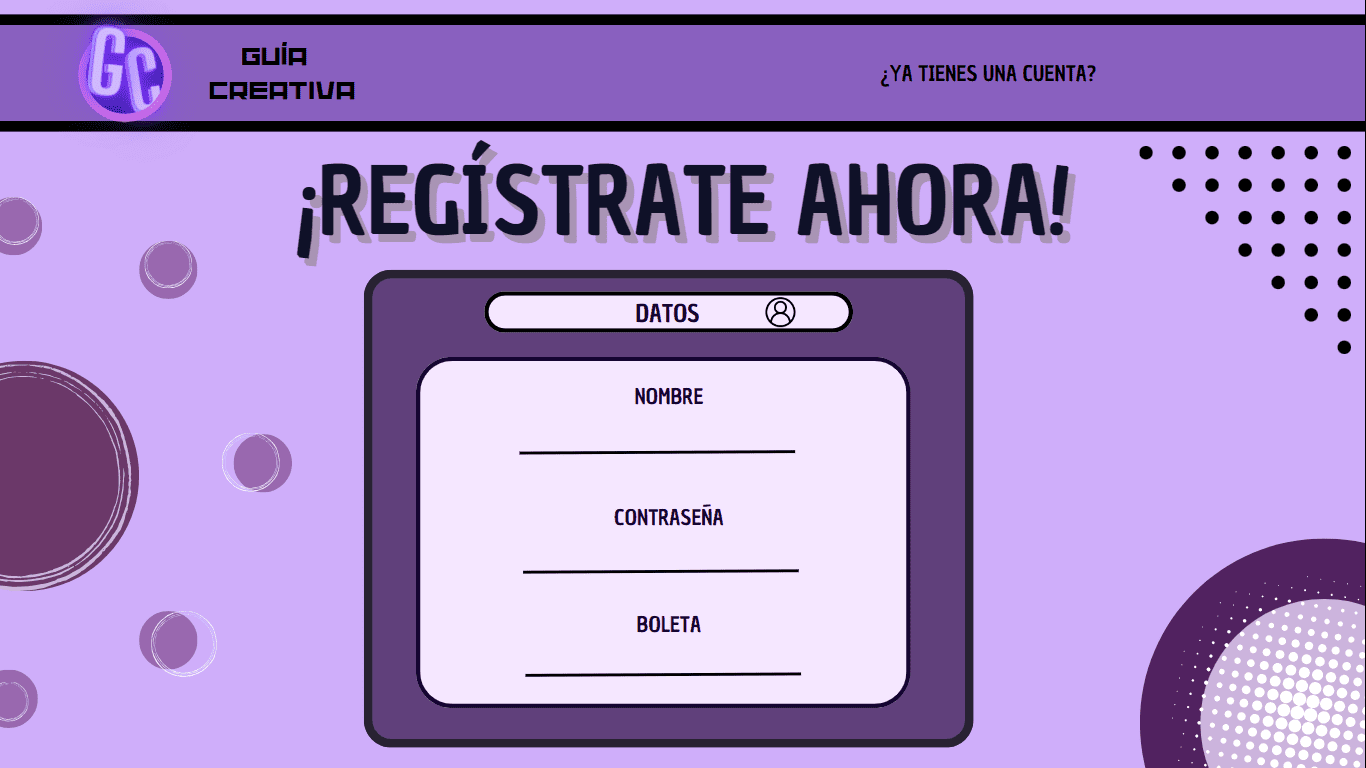
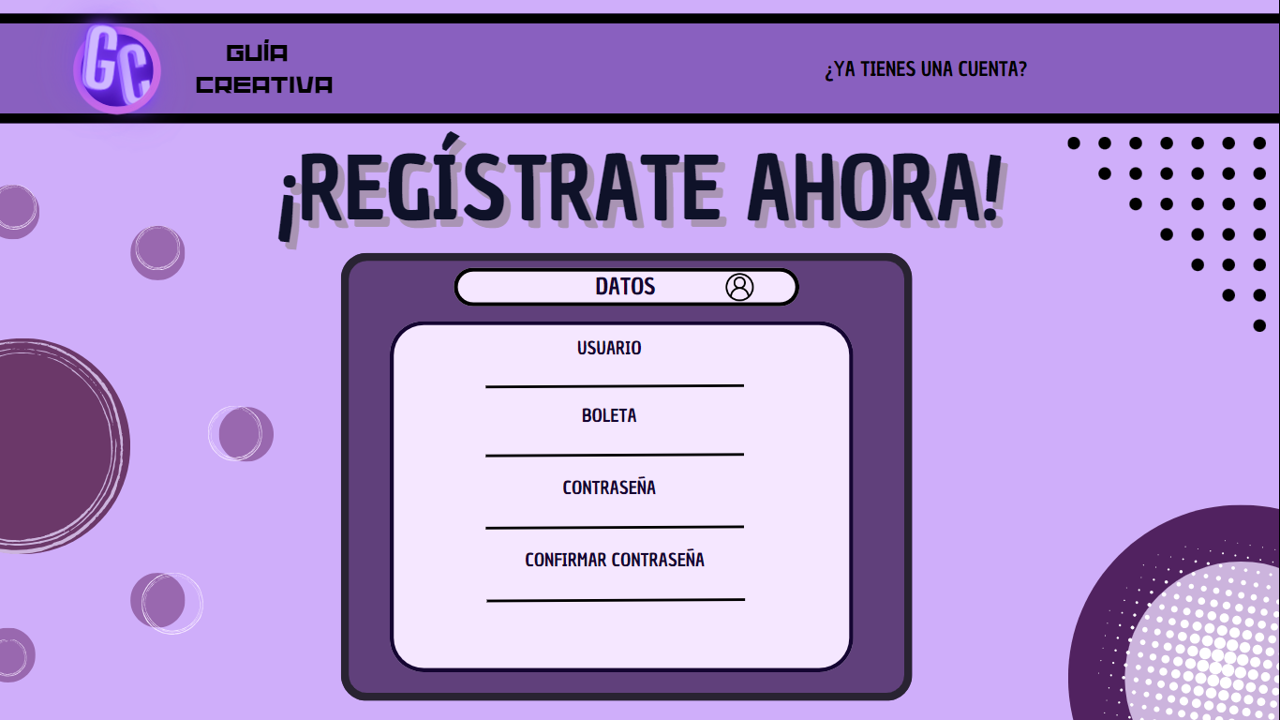
Agregue funciones en la carpeta inicio_sesion

diff --git a/Inicio_Sesion/src/Vista/Pantalla_Registro.java b/Inicio_Sesion/src/Vista/Pantalla_Registro.java
@@ -4,6 +4,14 @@
  */
 package Vista;
 
+import Modelos.Hash;
+import Modelos.SqlUsuarios;
+import Modelos.Usuarios;
+import java.awt.Image;
+import javax.swing.Icon;
+import javax.swing.ImageIcon;
+import javax.swing.JButton;
+
 /**
  *
  * @author user
@@ -15,6 +23,7 @@ public class Pantalla_Registro extends javax.swing.JFrame {
      */
     public Pantalla_Registro() {
         initComponents();
+        btnRegistro.setIcon(setIcono("/Imagenes/Boton-Registro.png", btnRegistro));
     }
 
     /**
@@ -27,53 +36,122 @@ public class Pantalla_Registro extends javax.swing.JFrame {
     private void initComponents() {
 
         bg = new javax.swing.JPanel();
+        txtUsuario = new javax.swing.JTextField();
+        txtPassword = new javax.swing.JPasswordField();
+        txtBoleta = new javax.swing.JTextField();
+        btnRegistro = new javax.swing.JButton();
+        txtConfirmarPassword = new javax.swing.JPasswordField();
         pantalla_Registro = new javax.swing.JLabel();
 
         setDefaultCloseOperation(javax.swing.WindowConstants.EXIT_ON_CLOSE);
-        setPreferredSize(new java.awt.Dimension(1366, 768));
+        setPreferredSize(new java.awt.Dimension(1280, 720));
         setResizable(false);
 
         bg.setBackground(new java.awt.Color(255, 255, 255));
-        bg.setPreferredSize(new java.awt.Dimension(1366, 768));
+        bg.setPreferredSize(new java.awt.Dimension(1280, 720));
+        bg.setLayout(new org.netbeans.lib.awtextra.AbsoluteLayout());
+
+        txtUsuario.setBackground(new java.awt.Color(245, 231, 255));
+        txtUsuario.setForeground(new java.awt.Color(204, 204, 204));
+        txtUsuario.setText("Ingresar su nombre de usuario");
+        txtUsuario.setBorder(null);
+        txtUsuario.setCursor(new java.awt.Cursor(java.awt.Cursor.TEXT_CURSOR));
+        txtUsuario.setDisabledTextColor(new java.awt.Color(0, 0, 0));
+        txtUsuario.addActionListener(new java.awt.event.ActionListener() {
+            public void actionPerformed(java.awt.event.ActionEvent evt) {
+                txtUsuarioActionPerformed(evt);
+            }
+        });
+        bg.add(txtUsuario, new org.netbeans.lib.awtextra.AbsoluteConstraints(490, 360, 260, 20));
+
+        txtPassword.setBackground(new java.awt.Color(245, 231, 255));
+        txtPassword.setForeground(new java.awt.Color(204, 204, 204));
+        txtPassword.setHorizontalAlignment(javax.swing.JTextField.LEFT);
+        txtPassword.setText("jPasswordField1");
+        txtPassword.setBorder(null);
+        txtPassword.setDisabledTextColor(new java.awt.Color(0, 0, 0));
+        bg.add(txtPassword, new org.netbeans.lib.awtextra.AbsoluteConstraints(490, 500, 250, 20));
+
+        txtBoleta.setBackground(new java.awt.Color(245, 231, 255));
+        txtBoleta.setForeground(new java.awt.Color(204, 204, 204));
+        txtBoleta.setHorizontalAlignment(javax.swing.JTextField.LEFT);
+        txtBoleta.setText("Ingresa su numero de boleta");
+        txtBoleta.setBorder(null);
+        bg.add(txtBoleta, new org.netbeans.lib.awtextra.AbsoluteConstraints(490, 430, 250, -1));
+
+        btnRegistro.setBorder(null);
+        btnRegistro.setContentAreaFilled(false);
+        btnRegistro.setCursor(new java.awt.Cursor(java.awt.Cursor.HAND_CURSOR));
+        btnRegistro.setHorizontalTextPosition(javax.swing.SwingConstants.CENTER);
+        btnRegistro.setPreferredSize(new java.awt.Dimension(170, 40));
+        btnRegistro.addActionListener(new java.awt.event.ActionListener() {
+            public void actionPerformed(java.awt.event.ActionEvent evt) {
+                btnRegistroActionPerformed(evt);
+            }
+        });
+        bg.add(btnRegistro, new org.netbeans.lib.awtextra.AbsoluteConstraints(540, 600, -1, -1));
+
+        txtConfirmarPassword.setBackground(new java.awt.Color(245, 231, 255));
+        txtConfirmarPassword.setForeground(new java.awt.Color(204, 204, 204));
+        txtConfirmarPassword.setText("jPasswordField1");
+        txtConfirmarPassword.setBorder(null);
+        bg.add(txtConfirmarPassword, new org.netbeans.lib.awtextra.AbsoluteConstraints(490, 570, 250, 20));
 
         pantalla_Registro.setIcon(new javax.swing.ImageIcon(getClass().getResource("/Imagenes/Fondo2.png"))); // NOI18N
-
-        javax.swing.GroupLayout bgLayout = new javax.swing.GroupLayout(bg);
-        bg.setLayout(bgLayout);
-        bgLayout.setHorizontalGroup(
-            bgLayout.createParallelGroup(javax.swing.GroupLayout.Alignment.LEADING)
-            .addGroup(bgLayout.createSequentialGroup()
-                .addComponent(pantalla_Registro, javax.swing.GroupLayout.PREFERRED_SIZE, 1366, javax.swing.GroupLayout.PREFERRED_SIZE)
-                .addGap(0, 0, Short.MAX_VALUE))
-        );
-        bgLayout.setVerticalGroup(
-            bgLayout.createParallelGroup(javax.swing.GroupLayout.Alignment.LEADING)
-            .addGroup(bgLayout.createSequentialGroup()
-                .addComponent(pantalla_Registro, javax.swing.GroupLayout.PREFERRED_SIZE, 768, javax.swing.GroupLayout.PREFERRED_SIZE)
-                .addGap(0, 0, Short.MAX_VALUE))
-        );
+        bg.add(pantalla_Registro, new org.netbeans.lib.awtextra.AbsoluteConstraints(0, 0, -1, -1));
 
         javax.swing.GroupLayout layout = new javax.swing.GroupLayout(getContentPane());
         getContentPane().setLayout(layout);
         layout.setHorizontalGroup(
             layout.createParallelGroup(javax.swing.GroupLayout.Alignment.LEADING)
-            .addGroup(layout.createSequentialGroup()
-                .addComponent(bg, javax.swing.GroupLayout.PREFERRED_SIZE, javax.swing.GroupLayout.DEFAULT_SIZE, javax.swing.GroupLayout.PREFERRED_SIZE)
-                .addGap(0, 1255, Short.MAX_VALUE))
+            .addComponent(bg, javax.swing.GroupLayout.PREFERRED_SIZE, javax.swing.GroupLayout.DEFAULT_SIZE, javax.swing.GroupLayout.PREFERRED_SIZE)
         );
         layout.setVerticalGroup(
             layout.createParallelGroup(javax.swing.GroupLayout.Alignment.LEADING)
-            .addGroup(layout.createSequentialGroup()
-                .addComponent(bg, javax.swing.GroupLayout.DEFAULT_SIZE, 768, Short.MAX_VALUE)
-                .addGap(0, 654, Short.MAX_VALUE))
+            .addComponent(bg, javax.swing.GroupLayout.PREFERRED_SIZE, 720, javax.swing.GroupLayout.PREFERRED_SIZE)
         );
 
         pack();
     }// </editor-fold>//GEN-END:initComponents
 
+    private void txtUsuarioActionPerformed(java.awt.event.ActionEvent evt) {//GEN-FIRST:event_txtUsuarioActionPerformed
+        // TODO add your handling code here:
+    }//GEN-LAST:event_txtUsuarioActionPerformed
+
+    private void btnRegistroActionPerformed(java.awt.event.ActionEvent evt) {//GEN-FIRST:event_btnRegistroActionPerformed
+        SqlUsuarios modSql = new SqlUsuarios();
+        
+        Usuarios mod = new Usuarios();
+        
+        String pass = new String(txtPassword.getPassword());
+        String conPass = new String(txtConfirmarPassword.getPassword());
+        
+            if(pass.equals(conPass)){
+                String nuevoPass = Hash.sha1(pass);
+                
+                mod.setNombre(txtUsuario.getText());
+                mod.setBoleta(Integer.parseInt(txtBoleta.getText()));
+                mod.setPassword(nuevoPass);
+            }
+        
+        
+        
+    }//GEN-LAST:event_btnRegistroActionPerformed
+
     /**
      * @param args the command line arguments
      */
+    public Icon setIcono(String url,JButton boton){
+        ImageIcon icon = new ImageIcon(getClass().getResource(url));
+        
+        int ancho = boton.getWidth();
+        
+        int alto = boton.getHeight();
+        
+        ImageIcon icono = new ImageIcon(icon.getImage().getScaledInstance(ancho, alto, Image.SCALE_SMOOTH));
+        
+        return icono;
+    }
     public static void main(String args[]) {
         /* Set the Nimbus look and feel */
         //<editor-fold defaultstate="collapsed" desc=" Look and feel setting code (optional) ">
@@ -108,6 +186,11 @@ public class Pantalla_Registro extends javax.swing.JFrame {
 
     // Variables declaration - do not modify//GEN-BEGIN:variables
     private javax.swing.JPanel bg;
+    private javax.swing.JButton btnRegistro;
     private javax.swing.JLabel pantalla_Registro;
+    private javax.swing.JTextField txtBoleta;
+    private javax.swing.JPasswordField txtConfirmarPassword;
+    private javax.swing.JPasswordField txtPassword;
+    private javax.swing.JTextField txtUsuario;
     // End of variables declaration//GEN-END:variables
 }

diff --git a/Inicio_Sesion/src/Vista/Pantalla_Inicio.java b/Inicio_Sesion/src/Vista/Pantalla_Inicio.java
@@ -20,6 +20,8 @@ public class Pantalla_Inicio extends javax.swing.JFrame {
      */
     public Pantalla_Inicio() {
         initComponents();
+        
+        setExtendedState(MAXIMIZED_BOTH);
        // btnRegistrar.setIcon(setIcono("/Imagenes/Inicio-Sesion.png", btnRegistrar));
     }
 
@@ -33,39 +35,47 @@ public class Pantalla_Inicio extends javax.swing.JFrame {
     private void initComponents() {
 
         bg = new javax.swing.JPanel();
-        btnRegistrar = new javax.swing.JButton();
+        btnLogin = new javax.swing.JButton();
         btnRegistro = new javax.swing.JButton();
         btnConocenos = new javax.swing.JButton();
         P1_fondo = new javax.swing.JLabel();
 
         setDefaultCloseOperation(javax.swing.WindowConstants.EXIT_ON_CLOSE);
+        setResizable(false);
 
         bg.setBackground(new java.awt.Color(255, 255, 255));
         bg.setPreferredSize(new java.awt.Dimension(1920, 1080));
         bg.setLayout(new org.netbeans.lib.awtextra.AbsoluteLayout());
 
-        btnRegistrar.setIcon(new javax.swing.ImageIcon(getClass().getResource("/Imagenes/Inicio-Sesion.png"))); // NOI18N
-        btnRegistrar.setBorder(null);
-        btnRegistrar.setContentAreaFilled(false);
-        btnRegistrar.setHorizontalTextPosition(javax.swing.SwingConstants.CENTER);
-        btnRegistrar.setPreferredSize(new java.awt.Dimension(262, 49));
-        btnRegistrar.addActionListener(new java.awt.event.ActionListener() {
+        btnLogin.setIcon(new javax.swing.ImageIcon(getClass().getResource("/Imagenes/Inicio-Sesion.png"))); // NOI18N
+        btnLogin.setBorder(null);
+        btnLogin.setContentAreaFilled(false);
+        btnLogin.setCursor(new java.awt.Cursor(java.awt.Cursor.HAND_CURSOR));
+        btnLogin.setHorizontalTextPosition(javax.swing.SwingConstants.CENTER);
+        btnLogin.setPreferredSize(new java.awt.Dimension(262, 49));
+        btnLogin.addActionListener(new java.awt.event.ActionListener() {
             public void actionPerformed(java.awt.event.ActionEvent evt) {
-                btnRegistrarActionPerformed(evt);
+                btnLoginActionPerformed(evt);
             }
         });
-        bg.add(btnRegistrar, new org.netbeans.lib.awtextra.AbsoluteConstraints(1490, 50, 261, 48));
+        bg.add(btnLogin, new org.netbeans.lib.awtextra.AbsoluteConstraints(1490, 50, 261, 48));
 
         btnRegistro.setIcon(new javax.swing.ImageIcon(getClass().getResource("/Imagenes/Registro.png"))); // NOI18N
         btnRegistro.setBorder(null);
         btnRegistro.setContentAreaFilled(false);
+        btnRegistro.setCursor(new java.awt.Cursor(java.awt.Cursor.HAND_CURSOR));
+        btnRegistro.addActionListener(new java.awt.event.ActionListener() {
+            public void actionPerformed(java.awt.event.ActionEvent evt) {
+                btnRegistroActionPerformed(evt);
+            }
+        });
         bg.add(btnRegistro, new org.netbeans.lib.awtextra.AbsoluteConstraints(1160, 50, 269, 50));
         btnRegistro.getAccessibleContext().setAccessibleName("btnRegistro");
 
         btnConocenos.setIcon(new javax.swing.ImageIcon(getClass().getResource("/Imagenes/conocenos.png"))); // NOI18N
         btnConocenos.setBorder(null);
         btnConocenos.setContentAreaFilled(false);
-        btnConocenos.setCursor(new java.awt.Cursor(java.awt.Cursor.DEFAULT_CURSOR));
+        btnConocenos.setCursor(new java.awt.Cursor(java.awt.Cursor.HAND_CURSOR));
         bg.add(btnConocenos, new org.netbeans.lib.awtextra.AbsoluteConstraints(830, 50, -1, -1));
 
         P1_fondo.setHorizontalAlignment(javax.swing.SwingConstants.CENTER);
@@ -90,9 +100,13 @@ public class Pantalla_Inicio extends javax.swing.JFrame {
         pack();
     }// </editor-fold>//GEN-END:initComponents
 
-    private void btnRegistrarActionPerformed(java.awt.event.ActionEvent evt) {//GEN-FIRST:event_btnRegistrarActionPerformed
+    private void btnLoginActionPerformed(java.awt.event.ActionEvent evt) {//GEN-FIRST:event_btnLoginActionPerformed
         //todos
-    }//GEN-LAST:event_btnRegistrarActionPerformed
+    }//GEN-LAST:event_btnLoginActionPerformed
+
+    private void btnRegistroActionPerformed(java.awt.event.ActionEvent evt) {//GEN-FIRST:event_btnRegistroActionPerformed
+        // TODO add your handling code here:
+    }//GEN-LAST:event_btnRegistroActionPerformed
 
     /**
      * @param args the command line arguments
@@ -146,7 +160,7 @@ public class Pantalla_Inicio extends javax.swing.JFrame {
     private javax.swing.JLabel P1_fondo;
     private javax.swing.JPanel bg;
     private javax.swing.JButton btnConocenos;
-    private javax.swing.JButton btnRegistrar;
+    private javax.swing.JButton btnLogin;
     private javax.swing.JButton btnRegistro;
     // End of variables declaration//GEN-END:variables
 }

diff --git a/Inicio_Sesion/src/Modelos/Hash.java b/Inicio_Sesion/src/Modelos/Hash.java
@@ -1,0 +1,38 @@
+/*
+ * Click nbfs://nbhost/SystemFileSystem/Templates/Licenses/license-default.txt to change this license
+ * Click nbfs://nbhost/SystemFileSystem/Templates/Classes/Class.java to edit this template
+ */
+package Modelos;
+
+/**
+ *
+ * @author user
+ */
+public class Hash {
+    
+    /* Retorna un hash a partir de un tipo y un texto */
+    public static String getHash(String txt, String hashType) {
+        try {
+            java.security.MessageDigest md = java.security.MessageDigest.getInstance(hashType);
+            byte[] array = md.digest(txt.getBytes());
+            StringBuffer sb = new StringBuffer();
+            for (int i = 0; i < array.length; ++i) {
+                sb.append(Integer.toHexString((array[i] & 0xFF) | 0x100).substring(1, 3));
+            }
+            return sb.toString();
+        } catch (java.security.NoSuchAlgorithmException e) {
+            System.out.println(e.getMessage());
+        }
+        return null;
+    }
+ 
+    /* Retorna un hash MD5 a partir de un texto */
+    public static String md5(String txt) {
+        return Hash.getHash(txt, "MD5");
+    }
+ 
+    /* Retorna un hash SHA1 a partir de un texto */
+    public static String sha1(String txt) {
+        return Hash.getHash(txt, "SHA1");
+    }
+}
